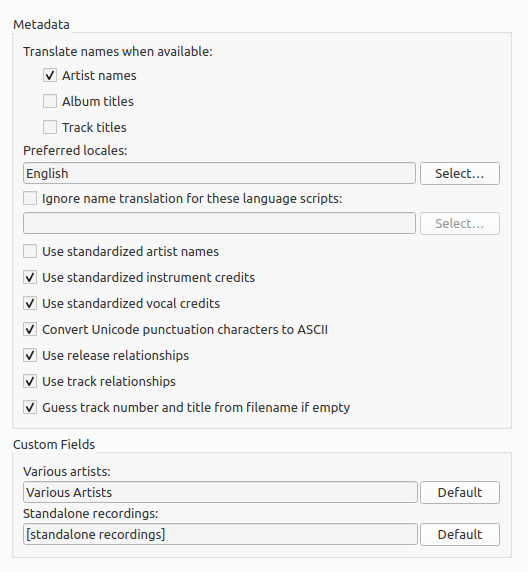
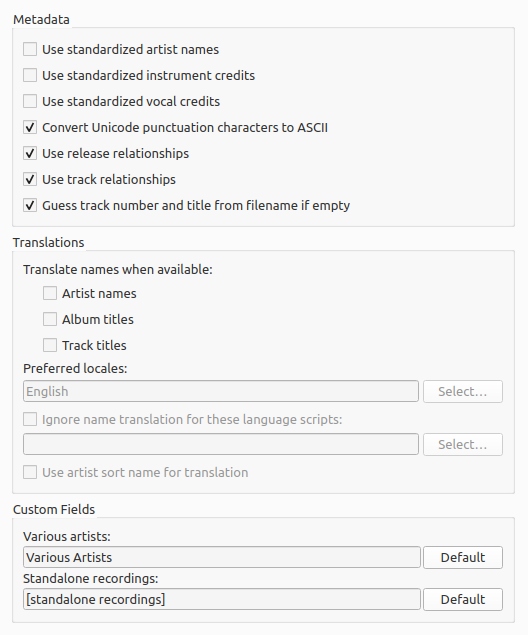
Update metadata translation option settings

diff --git a/config/options_metadata.rst b/config/options_metadata.rst
@@ -14,61 +14,13 @@
       :width: 70%
       :align: center
 
-**Translate artist names to this locale where possible**
-
-   When checked, Picard will check each of the selected locales in order to see whether an artist has an alias for that locale. If it does, Picard will use that alias instead of the artist name when tagging. For example, if you have selected locales of "English (Canadian)" and "English (US)", and there are aliases for "English (US)", "English" and "Greek", then the "English (US)" alias will be used.
-
-   Note that Picard will attempt to use the first exact match first. For example, if you have selected locales of "English (Canadian)", "English (US)" and "Greek, and there are aliases for "English" and "Greek", then the "Greek" alias will be used.
-
-   If there are no exact matches to any of the selected locales, then Picard will attempt to find a match based on the root locale. For example, if you have selected locales of "English (Canadian)", "English (US)" and "Greek (Cyprus)", and there are aliases for "English (UK)" and "Greek", then the "English (UK)" alias will be used.
-
-   When "English" is the selected locale, the artist sort name (which is, by Style Guideline, stored in Latin script) is used as a fallback if there is no English alias.
-
-   To select which locales to use, click the :guilabel:`Select...` button beside the list of selected locales. This will bring up a new dialog window where you can add, remove or reorder your list of selected locales.
-
-   .. only:: not latex
-
-      .. image:: images/locale_selector.png
-         :align: center
-
-   .. only:: latex
-
-      .. image:: images/locale_selector.png
-         :width: 70%
-         :align: center
-
-   Once you are satisfied with your selections, click the :guilabel:`Save` button to transfer the list to your option settings and close the dialog. Note that the changes will not be saved permanently until you click the :guilabel:`Make It So!` button.
-
-**Ignore artist name translation for script**
-
-   Sometimes you may not want to have the artist names translated if they appear in a certain character set script. When checked, this option will tell Picard to not perform the artist name translation if it is written using one of the selected scripts.
-
-   Each selected script includes a matching threshold value used to determine if that script should be used. When an artist name is evaluated to determine if it matches one of your selected scripts, it is first parsed to determine which scripts are represented in the name, and what weighted percentage of the name belongs to each script. Then each of your selected scripts are checked, and if the name contains characters belonging to the script and the percentage of script characters in the name meets or exceeds the match threshold specified for the script, then the artist name will not be translated.
-
-   For example, if "Translate artist names" is enabled with the locale set to "English", and you enable "Ignore artist name translation" with the scripts set to "Greek (30%)" and "Cyrillic (50%)", any artist names that contain 30% Greek characters or 50% Cyrillic characters will not be translated and will appear in their origin form.
-
-   To select which character set scripts to use and their weighting thresholds, click the :guilabel:`Select...` button beside the list of selected scripts. This will bring up a new dialog window where you can add, edit or remove items in your list of selected scripts.
-
-   .. only:: not latex
-
-      .. image:: images/script_selector.png
-         :align: center
-
-   .. only:: latex
-
-      .. image:: images/script_selector.png
-         :width: 70%
-         :align: center
-
-   Once you are satisfied with your selections, click the :guilabel:`Save` button to transfer the list to your option settings and close the dialog. Note that the changes will not be saved permanently until you click the :guilabel:`Make It So!` button.
-
 **Use standardized artist names**
 
    Check to only use standard Artist names, rather than Artist Credits which may differ slightly across tracks and releases.
 
    .. note::
 
-      If the "Translate artist names" option above is also checked, it will override this option if a suitable alias is found.
+      If "Artist names" under the "Translate names when available" option is also checked, it will override this option if a suitable alias is found.
 
 **Use standardized instrument credits**
 
@@ -93,6 +45,66 @@
 **Guess track number and title from filename if empty**
 
    If checked, Picard will try to guess a file's track number or title from the filename if the ``tracknumber`` or ``title`` tag is empty.
+
+**Translate names when available**
+
+   Picard can be set to provide translations of some items based on the available information in the MusicBrainz database. The items that can be translated are:
+
+   - Artist names
+   - Album titles
+   - Track titles
+
+   When checked, Picard will check each of the selected locales in order to see whether an item has an alias for that locale. If it does, Picard will use that alias instead of the item name when tagging. For example, if you have selected locales of "English (Canadian)" and "English (US)", and there are aliases for "English (US)", "English" and "Greek", then the "English (US)" alias will be used.
+
+   Note that Picard will attempt to use the first exact match first. For example, if you have selected locales of "English (Canadian)", "English (US)" and "Greek, and there are aliases for "English" and "Greek", then the "Greek" alias will be used.
+
+   If there are no exact matches to any of the selected locales, then Picard will attempt to find a match based on the root locale. For example, if you have selected locales of "English (Canadian)", "English (US)" and "Greek (Cyprus)", and there are aliases for "English (UK)" and "Greek", then the "English (UK)" alias will be used.
+
+   If there is no match for the selected locale for an artist and "English" is the selected locale, Picard can optionally use the artist sort name (which is, by Style Guideline, stored in Latin script) as a fallback. This is enabled by checking the "Use artist sort name for translation" option.
+
+**Preferred locales**
+
+   To select which locales to use, click the :guilabel:`Select...` button beside the list of selected locales. This will bring up a new dialog window where you can add, remove or reorder your list of selected locales.
+
+   .. only:: not latex
+
+      .. image:: images/locale_selector.png
+         :align: center
+
+   .. only:: latex
+
+      .. image:: images/locale_selector.png
+         :width: 70%
+         :align: center
+
+   Once you are satisfied with your selections, click the :guilabel:`Save` button to transfer the list to your option settings and close the dialog. Note that the changes will not be saved permanently until you click the :guilabel:`Make It So!` button.
+
+**Ignore name translation for these language scripts**
+
+   Sometimes you may not want to have the items translated if they appear in a certain character set script. When checked, this option will tell Picard to not perform the translation if it is written using one of the selected scripts.
+
+   Each selected script includes a matching threshold value used to determine if that script should be used. When a name is evaluated to determine if it matches one of your selected scripts, it is first parsed to determine which scripts are represented in the name, and what weighted percentage of the name belongs to each script. Then each of your selected scripts are checked, and if the name contains characters belonging to the script and the percentage of script characters in the name meets or exceeds the match threshold specified for the script, then the name will not be translated.
+
+   For example, if "Artist names" is enabled with the locale set to "English", and you enable "Ignore name translation for these language scripts" with the scripts set to "Greek (30%)" and "Cyrillic (50%)", any artist names that contain 30% Greek characters or 50% Cyrillic characters will not be translated and will appear in their origin form.
+
+   To select which character set scripts to use and their weighting thresholds, click the :guilabel:`Select...` button beside the list of selected scripts. This will bring up a new dialog window where you can add, edit or remove items in your list of selected scripts.
+
+   .. only:: not latex
+
+      .. image:: images/script_selector.png
+         :align: center
+
+   .. only:: latex
+
+      .. image:: images/script_selector.png
+         :width: 70%
+         :align: center
+
+   Once you are satisfied with your selections, click the :guilabel:`Save` button to transfer the list to your option settings and close the dialog. Note that the changes will not be saved permanently until you click the :guilabel:`Make It So!` button.
+
+**Use artist sort name for translation**
+
+   When this option is enabled, if there is no match for the selected locale for an artist and "English" is the selected locale, Picard can use the artist sort name (which is, by Style Guideline, stored in Latin script) as a fallback.
 
 **Various artists**
 